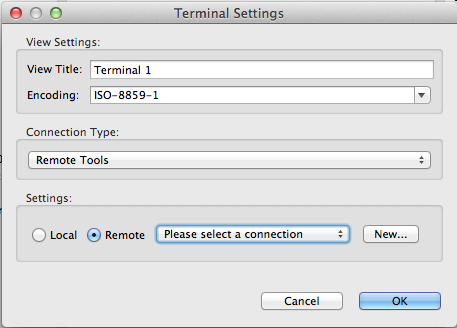
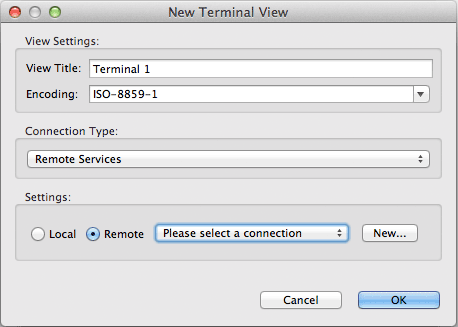
Bug 424176 - update docs for Remote Terminal, incl. new features for GUI terminal and interaction with eclipse

diff --git a/core/org.eclipse.ptp.doc.user/html/remoteTerminal.html b/core/org.eclipse.ptp.doc.user/html/remoteTerminal.html
@@ -6,53 +6,151 @@
 </head> 
 <body>
 <h1 id="top">PTP Remote Terminal</h1>
-<p><b>Remote Terminal</b> is a lightweight remote terminal that can be used to provide a shell from within Eclipse.
+<p><b>Remote Terminal</b> is a lightweight remote terminal that can be used to provide shell access to remote systems from within Eclipse.
 It is included with the Parallel Tools Platform (PTP) and uses the same connection information
-that is used by remote and synchronized projects, including <a href="remoteTools.html">Remote Tools</a>.
-<p>The <b>Terminal</b> view should be available near the bottom of the workbench
+that is used by remote and synchronized projects, including the default <a href="remoteTools.html">Built-in SSH</a>.
+
+<p>The <b>Terminal</b> view should be available near the bottom of the workbench.
+
 <p>
 <img src="images/rterm_wbench.png">
-<p>If it is not visible, you can open it via <b>Window > Show View > Other...</b>
+
+<p>If you already have a connection and/or a synchronized project, you can open a <b>Terminal</b> 
+<ul><li>
+to the machine with which
+the project is synchronized - by right-clicking on the project, then selecting "Show Terminal" from
+the dropdown menu.
+<li>to the machine with which any connection is established - in the <b>Terminal</b> view, select the <img src="images/rterm_icon_connect.png"> <b>Connect</b> 
+button.
+</li>
+</ul>
+</p>
+<p>If the <b>Terminal</b> view  is not visible, you can open it via <b>Window > Show View > Other...</b>
 and under <b>Terminal</b>, select <b>Terminal</b>.
 <p>
 <img src="images/rterm_showview.png">
 
-<p>The <b>Terminal</b> view is a convenient way to provide shell
-access to remote systems, and uses the same connection information that may be in use
-already for e.g. a synchronized project.
-
-<p>In the <b>Terminal</b> view, select the <img src="images/rterm_icon_connect.png"> <b>Connect</b> 
-<!-- or the <b>New Terminal Connection</b>  -->
+<p>To open a shell directly from the <b>Terminal</b> view, select the <img src="images/rterm_icon_connect.png"> <b>Connect</b> 
 button.
-
-<p>
-
 <p><img src="images/rterm_connect2.png"></p>
+
 <p>&nbsp;</p>
 <p>In the next dialog, choose <b>Connection Type:</b> to use e.g. <b>Remote Services</b>,
-and under <b>Settings</b>, select 
-<b>Remote service provider:</b> to use e.g. <b>Remote Tools</b>.
-Select your existing connection.  Or, if you have not already established a connection, select <b>New...</b>
+and under <b>Settings</b>, select the connection to use. 
+If you have not already established a connection, select <b>New...</b>
 and enter hostname, user, password, etc.
-For more information about creating connections, see <a href="remoteTools.html">Remote Tools</a>.
+For more information about creating connections, see <a href="remoteTools.html">Remote Services</a>.
 <p><img src="images/rterm_connect1.png"></p>
 
 <p>Select <b>OK</b> to open the shell on the selected system.
 <p><img src="images/rterm_connected.png"></p>
 <p>Shell commands can be entered on the selected system.
 <p>&nbsp;
+
+<h2 id="interact">Terminal/Eclipse Interaction</h2>
+
+<p>It is possible for the shell and the terminal to interact, allowing the eclipse
+user to have the best of both the command line and the GUI.</p>
+
+<p>For example, a short command can call up the Eclipse editor from the command line:
+<p><img src="images/rterm_ptpEdit.png">
+
+<p>Commands are initiated by special strings, sometimes called "escape sequences."
+These sequences are enumerated below:</p>
+<ol>
+<li><b>Open File:</b> The string "~~EPTP:OpenFile~~FileName\n" will cause the file
+named to be opened inside the Eclipse browser. Note that only full path names will
+work. If the file is part of a synchronized project, Eclipse will open the file as
+a local file on the client machine. If it is not, it will open the file with an URL
+using a "remotetools" protocol.</li>
+
+<li><b>Choose a File:</b> The string "~~EPTP:Choice~~File1~~File2~~..~~FileN\n" will
+open a dialog box in Eclipse and allow the user to choose one of the selected files
+for opening.</li>
+
+<li><b>Menu:</b> The string "~~EPTP:Radio~~MenuText1::~Command1~~MenuText2::~Command2.."
+will create a dialog box with a sequence of radio buttons, labeled "MenuText1", "MenuText2",
+etc. Choosing a given item and clicking OK will cause the corresponding command to be
+sent to the shell and executed.</li>
+</ol>
+
+<p>It is convenient to invoke the above escape sequences through the use of scripts.
+The following script is suggested for opening files on the remote machine. An example
+follows:</p>
+
+<pre>
+#!/usr/bin/perl
+use strict;
+use File::Spec;
+my @files = ();
+my $aflag = 0;
+for my $a (@ARGV) {
+    if($a eq "-a") {
+        $aflag = 1;
+    } elsif(-r $a) {
+        push @files, File::Spec-&gt;rel2abs($a);
+    }
+}
+if($#files == 0) {
+    print "~~EPTP:OpenFile~~",$files[0],"\n";
+} elsif($aflag) {
+    for my $file (@files) {
+        print "~~EPTP:OpenFile~~",$file,"\n";
+        sleep(1);
+    }
+} else {
+    print "~~EPTP:Choice~~",join("~~",@files),"\n";
+}
+</pre>
+
+<p>Using this script, it is possible to open any file within
+the Eclipse editor by typing:</p>
+
+<pre>  ptp filename</pre>
+
+<p>Note that the file name can be relative or absolute.</p>
+
+<h2 id="hist">Terminal History</h2>
+
+<p>A new view is available called "Terminal History." To open
+it type <b>Window > Show View > Other...</b>, and under the <b>Other</b> category, select "Terminal History."</p>
+
+<p>If you opened any terminals using "Show Terminal" on any synchronized projects,
+this view will show you your shell histories on the remote
+machines. In order for this to work, however, you must add a
+few special commands to your startup files on the remote machines.</p>
+
+<ol>
+<li><b>For Bash:</b> Add "history -a" to your ~/.bashrc</li>
+<li><b>For Tcsh/Csh:</b> Add "set history=100;set savehist=100;alias precmd 'history -S'" to
+your ~/.cshrc. Feel free to change the number "100" to whatever number of items you wish
+to retain in your shell history.</li>
+</ol>
+
+<p><img src="images/rterm_term_hist.png" width="600"></p>
+
+<p>As you type each new command, it will appear in the top of the history view,
+pushing the older commands down.</p>
+
+<ol>
+<li>If you wish to keep one of the commands near
+the top of the view, click the checkbox.</li>
+<.i>If you wish to re-execute the command
+from the history, click the numbered button at the left.</li>
+<li>If you wish to delete
+the command from the history, click the "X" button on the right.</li>
+<li>If you wish to edit the command, click inside the text box containing it.</li>
+</ol>
+
 <h2 id="other">Other Features</h2>
-<!-- FIXME caveat these don't seem to work quite right. -->
 
 <p>To create an additional view for another terminal connection use <b>New Terminal View</b>
 from the dropdown menu next to the 
 <img src="images/rterm_icon_newConn.png"> button in the view toolbar.
 <p><img src="images/rterm_newTermView.png"></p>
-<p>Fill in the information as indicated above, for the additional Terminal view.
-Note that you can change the view title in the dialog to create the new Terminal connection.
-This will give the multiple terminal views different names.
-<p>Then multiple <b>Terminal</b> views will exist, each with a different connection.  View titles were not changed in this example.
+<p>Then multiple <b>Terminal</b> views will exist, each with a different connection.
 <p><img src="images/rterm_2views.png"></p>
+<p>
 
 
 <p><a href="#top">Back to Top</a> | <a href="toc.html">Back to Table of Contents</a></p>
